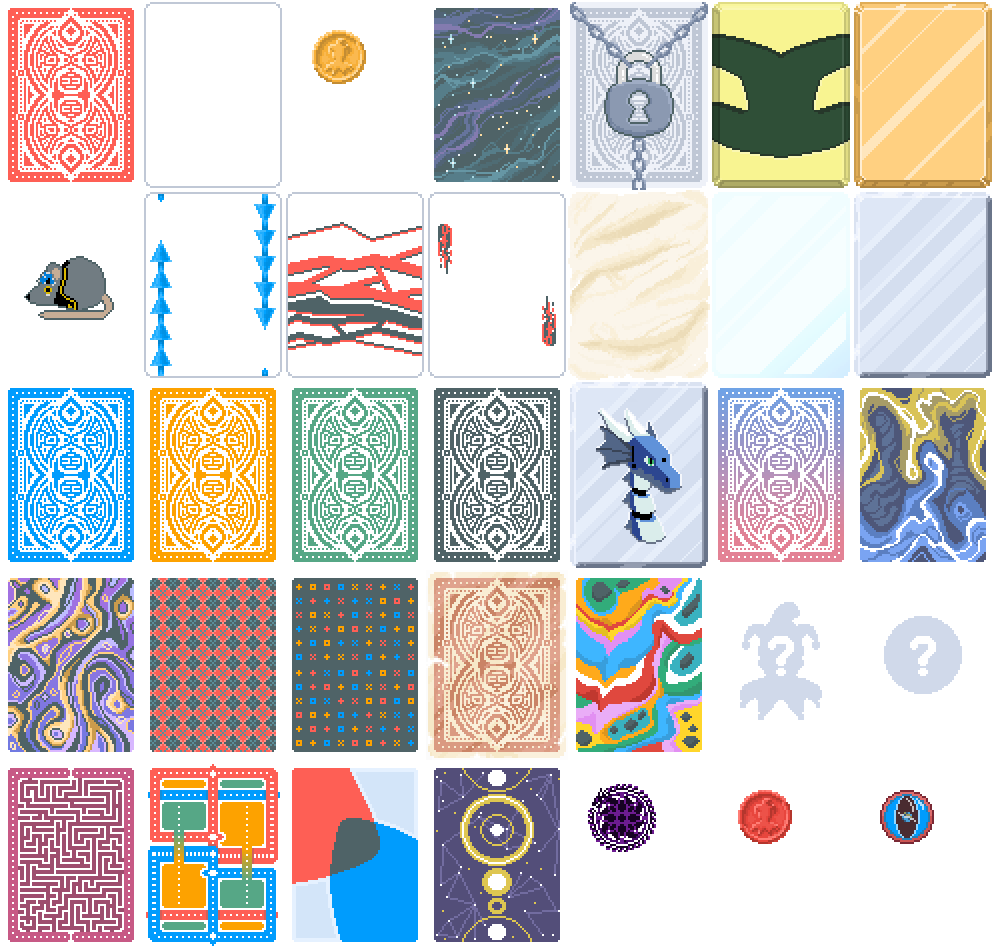
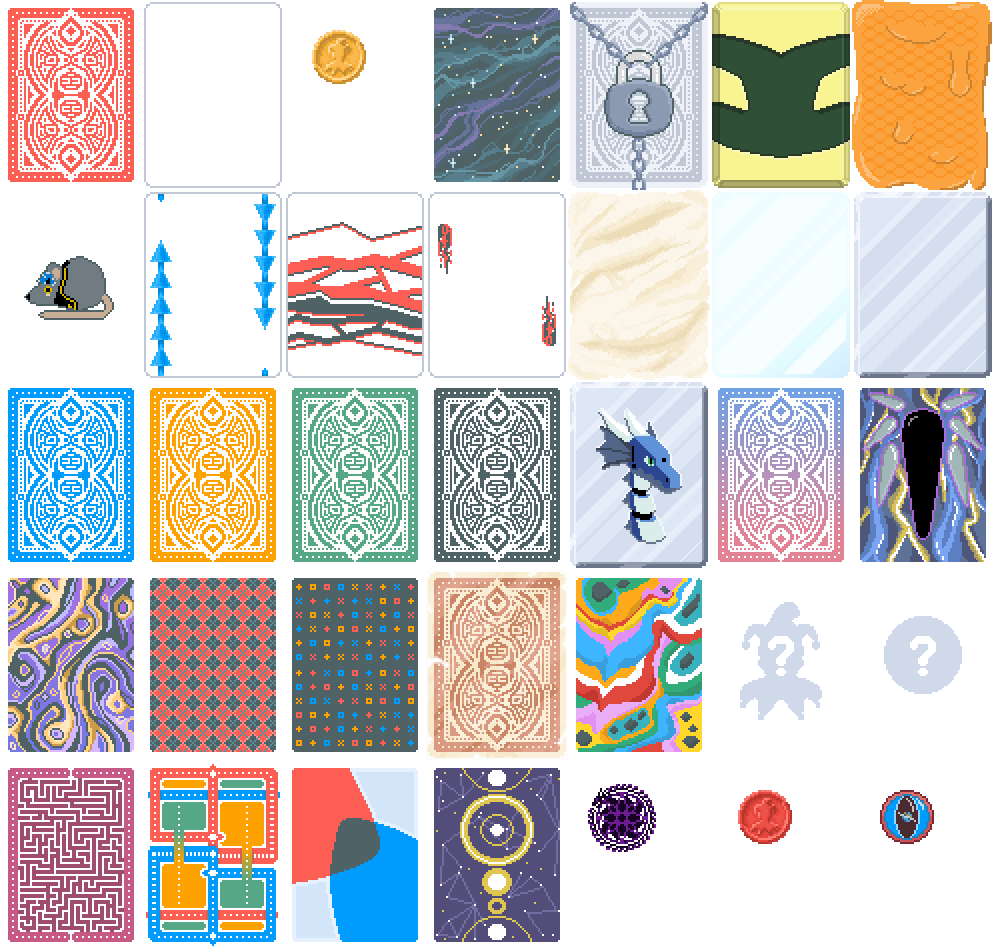
Add Midas Mask, Turtle Bean, Ghost Deck

Changed region(s): [[0.8421, 0.0, 0.998, 0.2137], [0.8421, 0.3968, 0.998, 0.6105]]

diff --git a/ReadMe.md b/ReadMe.md
@@ -37,7 +37,7 @@ Version 0.0.5a
 - Diamonds: Jack, Queen, King, Ace
 - Spades: Jack, Queen, King, Ace
 
-## Jokers: (31/150)
+## Jokers: (33/150)
 - Baron
 - Baseball Card
 - Blue Joker
@@ -54,6 +54,7 @@ Version 0.0.5a
 - Hack
 - Hologram
 - Ice Cream
+- Midas Mask
 - Obelisk
 - Oops All 6s
 - Riff Raff
@@ -67,6 +68,7 @@ Version 0.0.5a
 - Stuntman
 - Trading Card
 - Trio
+- Turtle Bean
 - Vampire
 - Wee Joker
 
@@ -87,6 +89,7 @@ Version 0.0.5a
 
 ## Enhancments
 - Stone Cards > Obscured
+- Gold Cards > Honey
 
 # Changes:
 
